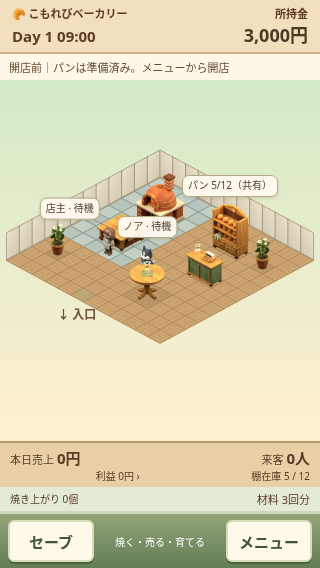
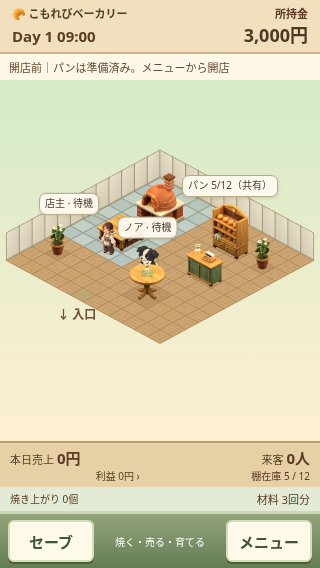
Use finished character art and work motions in normal play

Changed region(s): [[0.3125, 0.3592, 0.5625, 0.4789], [0.125, 0.3292, 0.3125, 0.3891]]

diff --git a/index.html b/index.html
@@ -64,7 +64,7 @@ const freshFinance=()=>({financeComplete:true,developmentCosts:0,materialCosts:0
 function restoreFinance(old){const complete=old?.financeComplete===true&&['materialCosts','equipmentCosts','equipmentRefunds','openingCoins'].every(k=>Number.isFinite(old[k])&&old[k]>=0);return{financeComplete:complete,developmentCosts:boundedInt(old?.developmentCosts,0),interiorCosts:boundedInt(old?.interiorCosts,0),expansionCosts:boundedInt(old?.expansionCosts,0),materialCosts:boundedInt(old?.materialCosts,0),equipmentCosts:boundedInt(old?.equipmentCosts,0),equipmentRefunds:boundedInt(old?.equipmentRefunds,0),openingCoins:boundedInt(old?.openingCoins,state.coins)}}
 const freshSimulation=()=>({...freshFinance(),phase:'prep',open:false,minute:OPEN_MINUTE,bake:0,ready:0,stock:0,sales:0,sold:0,customers:0,customerTick:0,day:1,lastReport:null,materials:0,ovenReady:0,legacyBake:false});
 function restoreSimulation(old){const next=freshSimulation();if(!old||typeof old!=='object')return next;Object.assign(next,restoreFinance(old));for(const key of ['ready','sales','sold','customers','materials','ovenReady'])next[key]=boundedInt(old[key],0);next.day=boundedInt(old.day,1,1);next.minute=boundedInt(old.minute,OPEN_MINUTE,OPEN_MINUTE,CLOSE_MINUTE);next.bake=boundedInt(old.bake,0,0,BAKE_MINUTES);next.legacyBake=old.legacyBake===true||(!Object.hasOwn(old,'materials')&&next.bake>0);next.stock=boundedInt(old.stock,0,0,SHELF_CAPACITY);next.customerTick=boundedInt(old.customerTick,0,0,CUSTOMER_INTERVAL);next.phase=['prep','trading','ended'].includes(old.phase)?old.phase:(old.open===true||next.minute>OPEN_MINUTE||next.bake>0||next.sales>0||next.sold>0?'trading':'prep');if(next.minute>=CLOSE_MINUTE)next.phase='ended';if(next.phase==='ended')next.minute=CLOSE_MINUTE;if(next.phase==='prep')next.minute=OPEN_MINUTE;next.open=next.phase==='trading'&&old.open===true;if(old.lastReport&&typeof old.lastReport==='object'){next.lastReport={...restoreFinance(old.lastReport),closingCoins:Number.isFinite(old.lastReport.closingCoins)?boundedInt(old.lastReport.closingCoins,state.coins):null,day:boundedInt(old.lastReport.day,Math.max(1,next.day-1),1),sales:boundedInt(old.lastReport.sales,0),sold:boundedInt(old.lastReport.sold,0),customers:boundedInt(old.lastReport.customers,0)}}return next}
-let shopStatus=null;let experience=null;let g={},hover=null,pointer=null,drag=null,interiorEngine=null,editDrag=null;const renovation={floor:'wood',wall:'plaster',axis:'y',kind:'wall'};const furnitureImages={};for(const type of Object.keys(furniture)){const im=new Image();im.onload=()=>{furnitureImages[type]=im;render()};im.src='assets/'+type+'.webp'}const furnitureViews={},furnitureGeometry={"imageSize":[512,512],"anchorPixels":[256.0002136230469,389.38427734375],"tileXAxisPixels":[86.19967651367188,46.54780578613281]};for(const type of Object.keys(furniture)){furnitureViews[type]=[];for(let rot=0;rot<4;rot++){const im=new Image();im.onload=()=>{furnitureViews[type][rot]=im;render()};im.src='assets/'+type+'_r'+rot+'.webp'}};let sim=restoreSimulation(savedGame?.sim);let crew=null,visitor=restoreCustomer(savedGame?.customer);const workImages={owner:{},noah:{}},workFoodImages={},characterMotion=BakeryCharacterMotion.create();for(const id of ['owner','noah'])if(MOTION_DEMO||START_PARAMS.get(id)==='study')for(const [kind,art] of Object.entries(window.BakeryWorkArt?.[id]||{})){const im=new Image();im.onload=()=>{workImages[id][kind]=im;render()};im.src=art.file}for(const id of Object.keys(BakeryProducts.recipes)){const im=new Image();im.onload=()=>{workFoodImages[id]=im;render()};im.src='assets/products/bread-'+id+'.webp'}const characterImages={},characterGeometry={frameSize:[256,256],anchorPixels:[128.00010681152344,194.692138671875],tileXAxisPixels:[43.09983825683594,23.273902893066406]};for(const id of ['owner','noah']){const im=new Image();im.onload=()=>{characterImages[id]=im;render()};im.src=MOTION_DEMO||START_PARAMS.get(id)==='study'?'docs/art/'+id+'-study/'+id+'.webp':'assets/characters/'+id+'.webp'}
+let shopStatus=null;let experience=null;let g={},hover=null,pointer=null,drag=null,interiorEngine=null,editDrag=null;const renovation={floor:'wood',wall:'plaster',axis:'y',kind:'wall'};const furnitureImages={};for(const type of Object.keys(furniture)){const im=new Image();im.onload=()=>{furnitureImages[type]=im;render()};im.src='assets/'+type+'.webp'}const furnitureViews={},furnitureGeometry={"imageSize":[512,512],"anchorPixels":[256.0002136230469,389.38427734375],"tileXAxisPixels":[86.19967651367188,46.54780578613281]};for(const type of Object.keys(furniture)){furnitureViews[type]=[];for(let rot=0;rot<4;rot++){const im=new Image();im.onload=()=>{furnitureViews[type][rot]=im;render()};im.src='assets/'+type+'_r'+rot+'.webp'}};let sim=restoreSimulation(savedGame?.sim);let crew=null,visitor=restoreCustomer(savedGame?.customer);const workImages={owner:{},noah:{}},workFoodImages={},characterMotion=BakeryCharacterMotion.create();for(const id of ['owner','noah'])for(const [kind,art] of Object.entries(window.BakeryWorkArt?.[id]||{})){const im=new Image();im.onload=()=>{workImages[id][kind]=im;render()};im.src=art.file}for(const id of Object.keys(BakeryProducts.recipes)){const im=new Image();im.onload=()=>{workFoodImages[id]=im;render()};im.src='assets/products/bread-'+id+'.webp'}const characterImages={},characterGeometry={frameSize:[256,256],anchorPixels:[128.00010681152344,194.692138671875],tileXAxisPixels:[43.09983825683594,23.273902893066406]};for(const id of ['owner','noah']){const im=new Image();im.onload=()=>{characterImages[id]=im;render()};im.src=MOTION_DEMO||START_PARAMS.get(id)==='study'?'docs/art/'+id+'-study/'+id+'.webp':'assets/characters/'+id+'.webp?v=2'}
 let saveFailed=false;function store(){if(MOTION_DEMO)return;try{localStorage.setItem(SAVE_KEY,JSON.stringify({...state,selection:null,mode:'idle',saveVersion:7,products:productBook,staff:crew?.save(),sim:{...sim},customer:{...visitor,cell:{...visitor.cell},next:visitor.next?{...visitor.next}:null}}));saveFailed=false}catch{if(!saveFailed){saveFailed=true;flash('自動保存できません。ブラウザーの保存設定を確認してください')}}}
 const dims=o=>{const t=furniture[o.type];return o.rot%2?[t[3],t[2]]:[t[2],t[3]]};
 const occupied=(objs=state.objects)=>{const m=new Map();for(const o of objs){const [w,h]=dims(o);for(let x=o.x;x<o.x+w;x++)for(let y=o.y;y<o.y+h;y++)m.set(x+','+y,o.id)}return m};

diff --git a/docs/HANDOFF.md b/docs/HANDOFF.md
@@ -6,7 +6,7 @@
 
 - 新規開始と確認後の初期化を12×12の店舗へ変更。漆喰の奥側外壁、石床の作業場、木床の売場、オーブン・調理台・パン棚・レジ、小テーブルと植木2点を設置済み。
 - 所持金3,000円、パン5個、材料3回分。開店前から開始し、メニューの「開店」で製造・陳列・販売が回る。初期設備は開業資産として支給し、当日の購入費には計上しない。
-- 既存セーブは空店舗も含め維持する。既存プレイヤーへ強制配置・拡張はしない。新セットへの変更は設定の初期化（確認あり）。動作デモの初期条件と人物素材の切替条件は従来どおり。
+- 既存セーブは空店舗も含め維持する。既存プレイヤーへ強制配置・拡張はしない。新セットへの変更は設定の初期化（確認あり）。動作デモの初期条件は従来どおり。主人公・ノアは通常プレイも新しい絵と全作業モーションへ統一し、`assets/characters/` の本番素材を採用済み画像で更新。既存セーブも新表示になる。
 - [初期店舗の画面・仕様・検証](starter-shop/README.md)。`tools/tests/starter-shop.cjs` で小画面、初日営業、全サービス経路、旧保存、再読込、初期化の確定／取消を確認。
 - 過去節の「初期10×10」「初期化後に設備を購入」は旧仕様。旧セーブと動作デモは引き続き10×10のまま保持する。
 

diff --git a/docs/starter-shop/README.md b/docs/starter-shop/README.md
@@ -9,6 +9,8 @@
 - 所持金3,000円、棚のパン5個、材料3回分。メニューから開店すると、スタッフが製造・陳列・会計を進める。
 - 開店前なので配置変更・商品開発・増築も可能。初期設備は支給資産として扱い、当日の購入費と利益を歪めない。
 
+主人公・ノアの通常表示も採用済みの新しい絵に統一し、作業シート8枚を通常プレイから読み込む。保存の体型・担当・進行は維持する。
+
 有効な既存セーブは空店舗を含め維持する。新規開始、壊れた保存からの復帰、設定で確認して初期化した場合だけ新セットになる。初期化を取り消すと保存と画面を維持する。動作デモは従来の別条件・保存非変更を保つ。
 
 ## 検証
